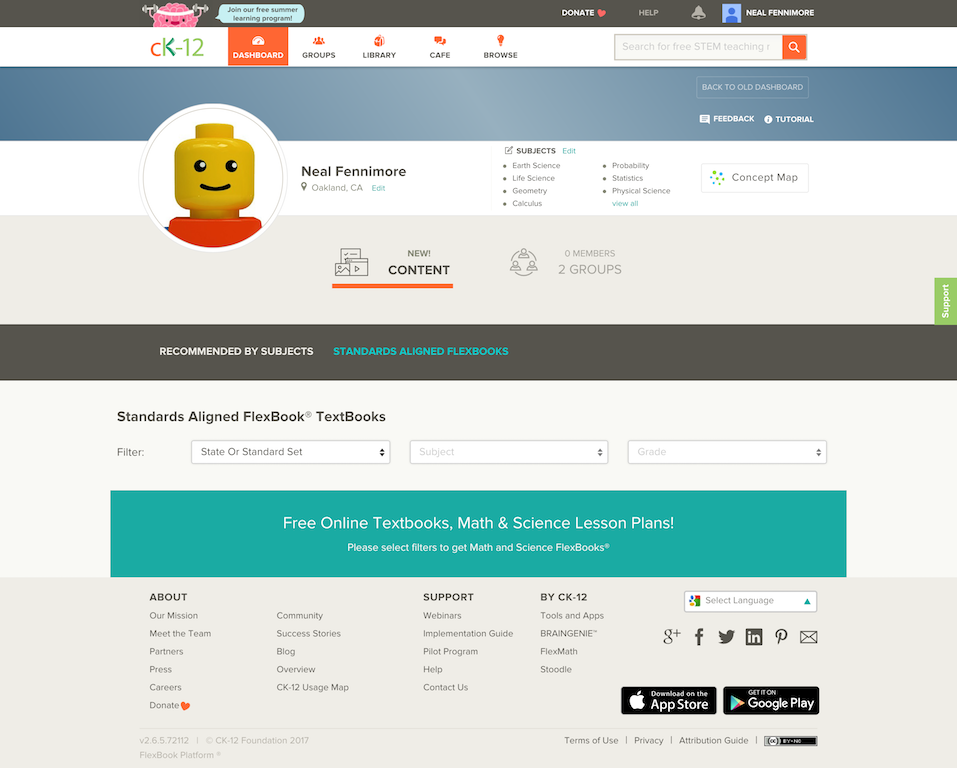
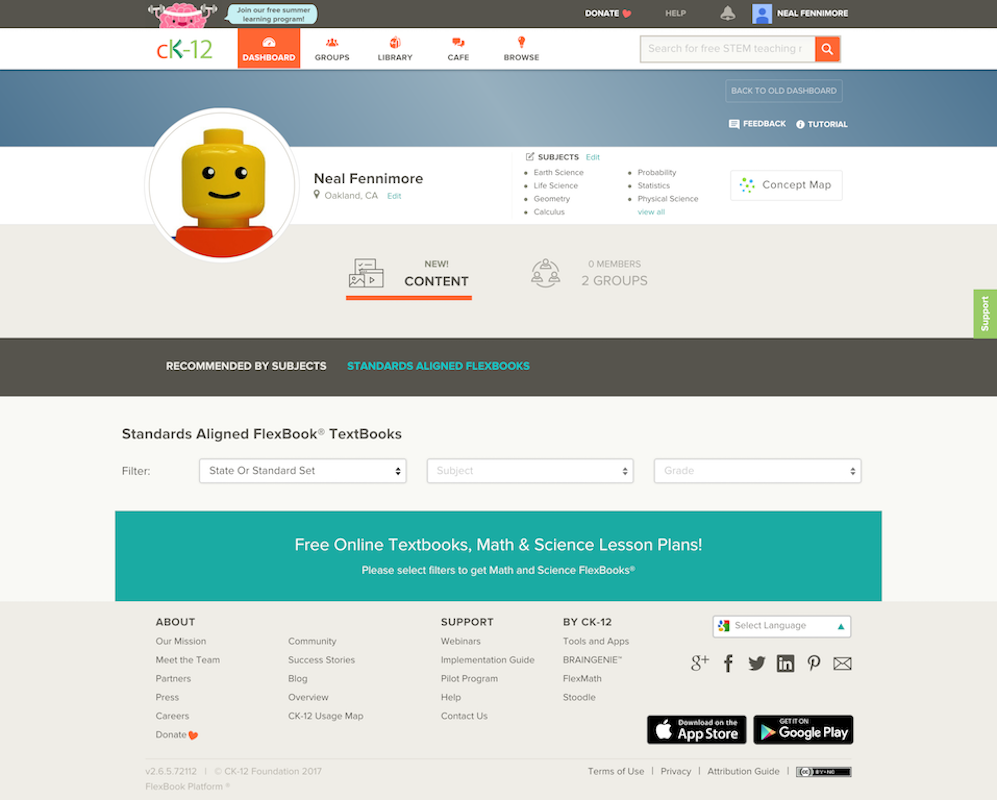
Add and update dashboard images

diff --git a/client/js/reducers/projects/projects.js b/client/js/reducers/projects/projects.js
@@ -40,8 +40,10 @@ import CMEditor from 'images/projects/ConceptMap/concept-map-editor.png';
 //////////////////////
 // TeacherDashboard //
 //////////////////////
+import DBCover from 'images/projects/TeacherDashboard/dashboard-cover.png';
 import DBContent from 'images/projects/TeacherDashboard/dashboard-content.png';
 import DBContentStandards from 'images/projects/TeacherDashboard/dashboard-content-standards.png';
+import DBGroups from 'images/projects/TeacherDashboard/dashboard-groups.png';
 import DBUserProfileEdit from 'images/projects/TeacherDashboard/dashboard-user-profile-edit.png';
 
 
@@ -109,10 +111,11 @@ const initialState = [
         description: `Revamped site-wide teacher dashboard with react and redux.
 
         Allows for better group organization and content finding.`,
-        coverImage: DBContent,
+        coverImage: DBCover,
         images: [
             DBContent,
             DBContentStandards,
+            DBGroups,
             DBUserProfileEdit
         ]
     },
